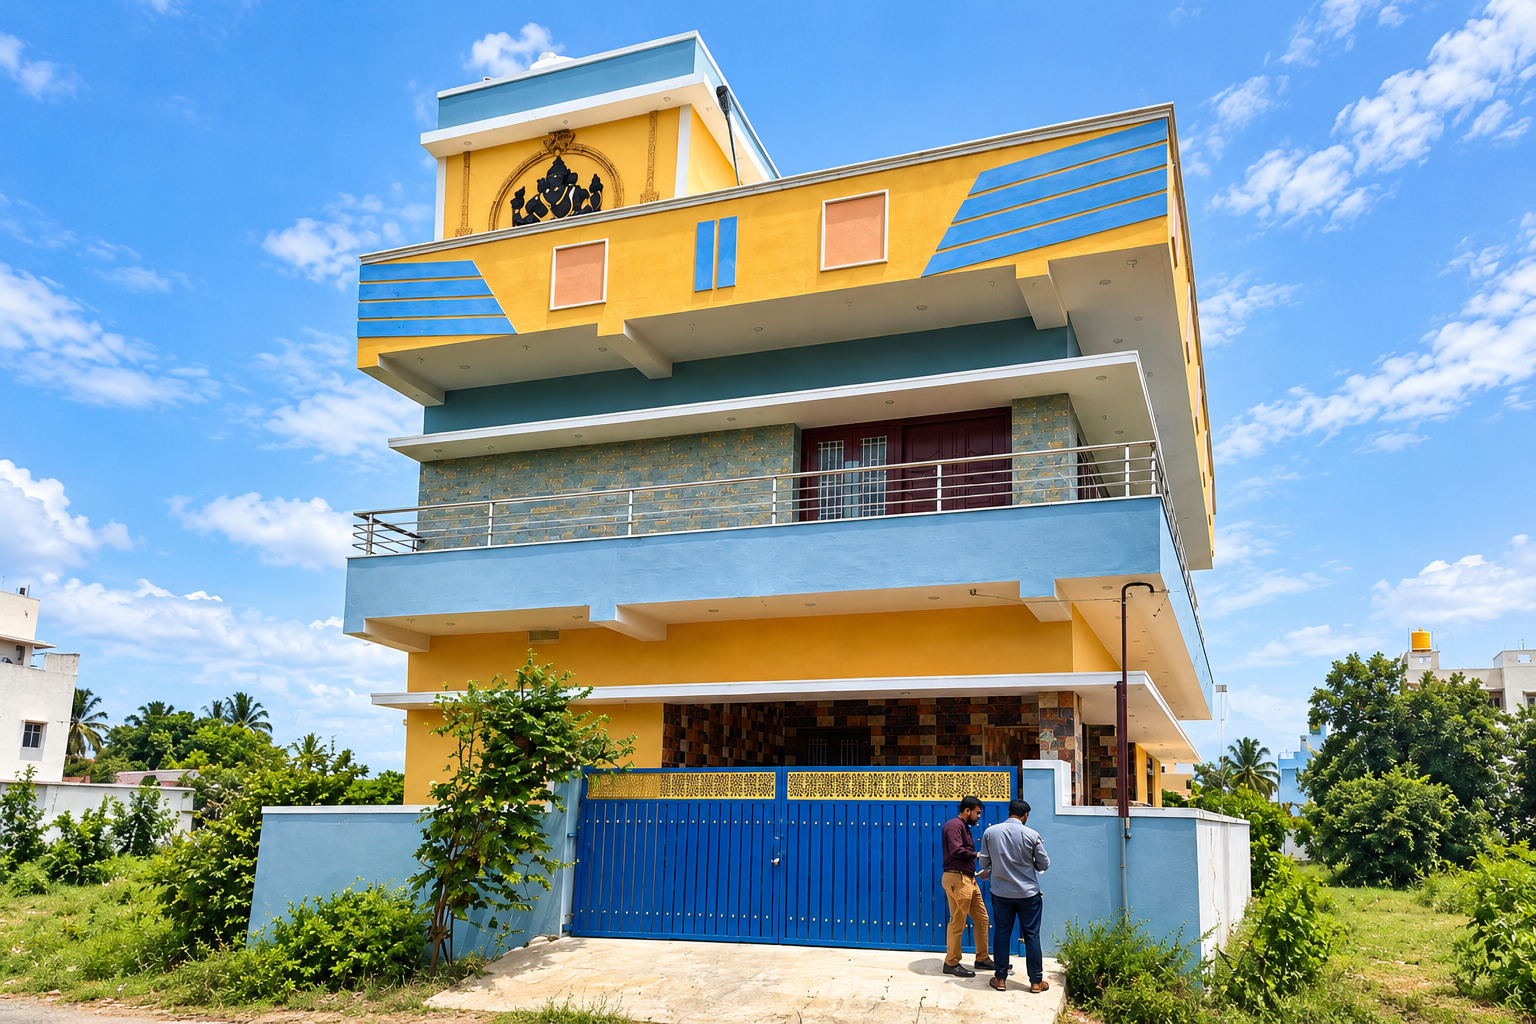
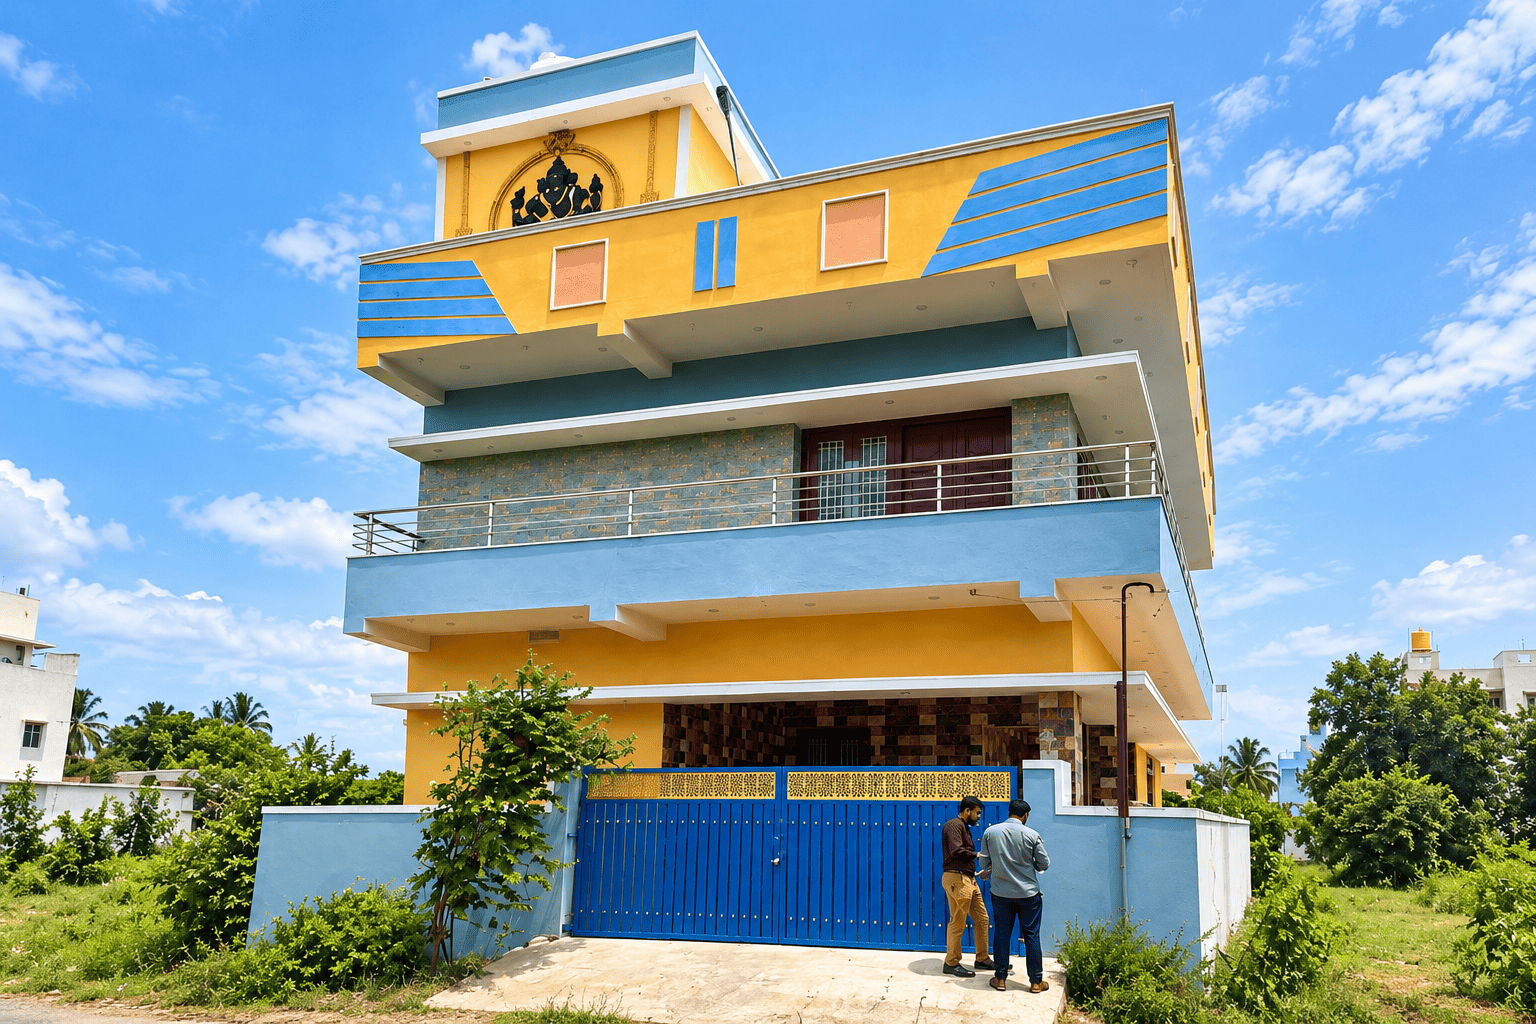
image compress

diff --git a/src/components/LoanServices.tsx b/src/components/LoanServices.tsx
@@ -194,7 +194,7 @@ export default function LoanServices() {
                         ease: "easeOut",
                       }
                 }
-                className="group flex h-full min-w-0 flex-col overflow-hidden rounded-2xl border border-slate-200/80 bg-white shadow-sm transition-[transform,box-shadow,border-color] duration-300 hover:-translate-y-2 hover:border-blue-200 hover:shadow-xl"
+                className="group flex min-w-0 flex-col overflow-hidden rounded-2xl border border-slate-200/80 bg-white shadow-sm transition-[transform,box-shadow,border-color] duration-300 hover:-translate-y-1 hover:shadow-lg"
               >
                 {/* Image or gradient banner */}
                 <div
@@ -231,7 +231,7 @@ export default function LoanServices() {
                 </div>
 
                 {/* Card content */}
-                <div className="flex flex-1 flex-col p-5 sm:p-5">
+                <div className="flex flex-col p-4 sm:p-5">
                   <h3 className="text-[16px] font-bold leading-6 text-[#101827] transition-colors duration-300 group-hover:text-blue-600">
                     {loan.title}
                   </h3>
@@ -240,9 +240,7 @@ export default function LoanServices() {
                     {loan.description}
                   </p>
 
-                  <div className="mt-auto overflow-hidden">
-                    <div className="mt-4 h-px origin-left scale-x-0 bg-blue-500 transition-transform duration-300 group-hover:scale-x-100" />
-                  </div>
+                  
                 </div>
               </motion.article>
             );
